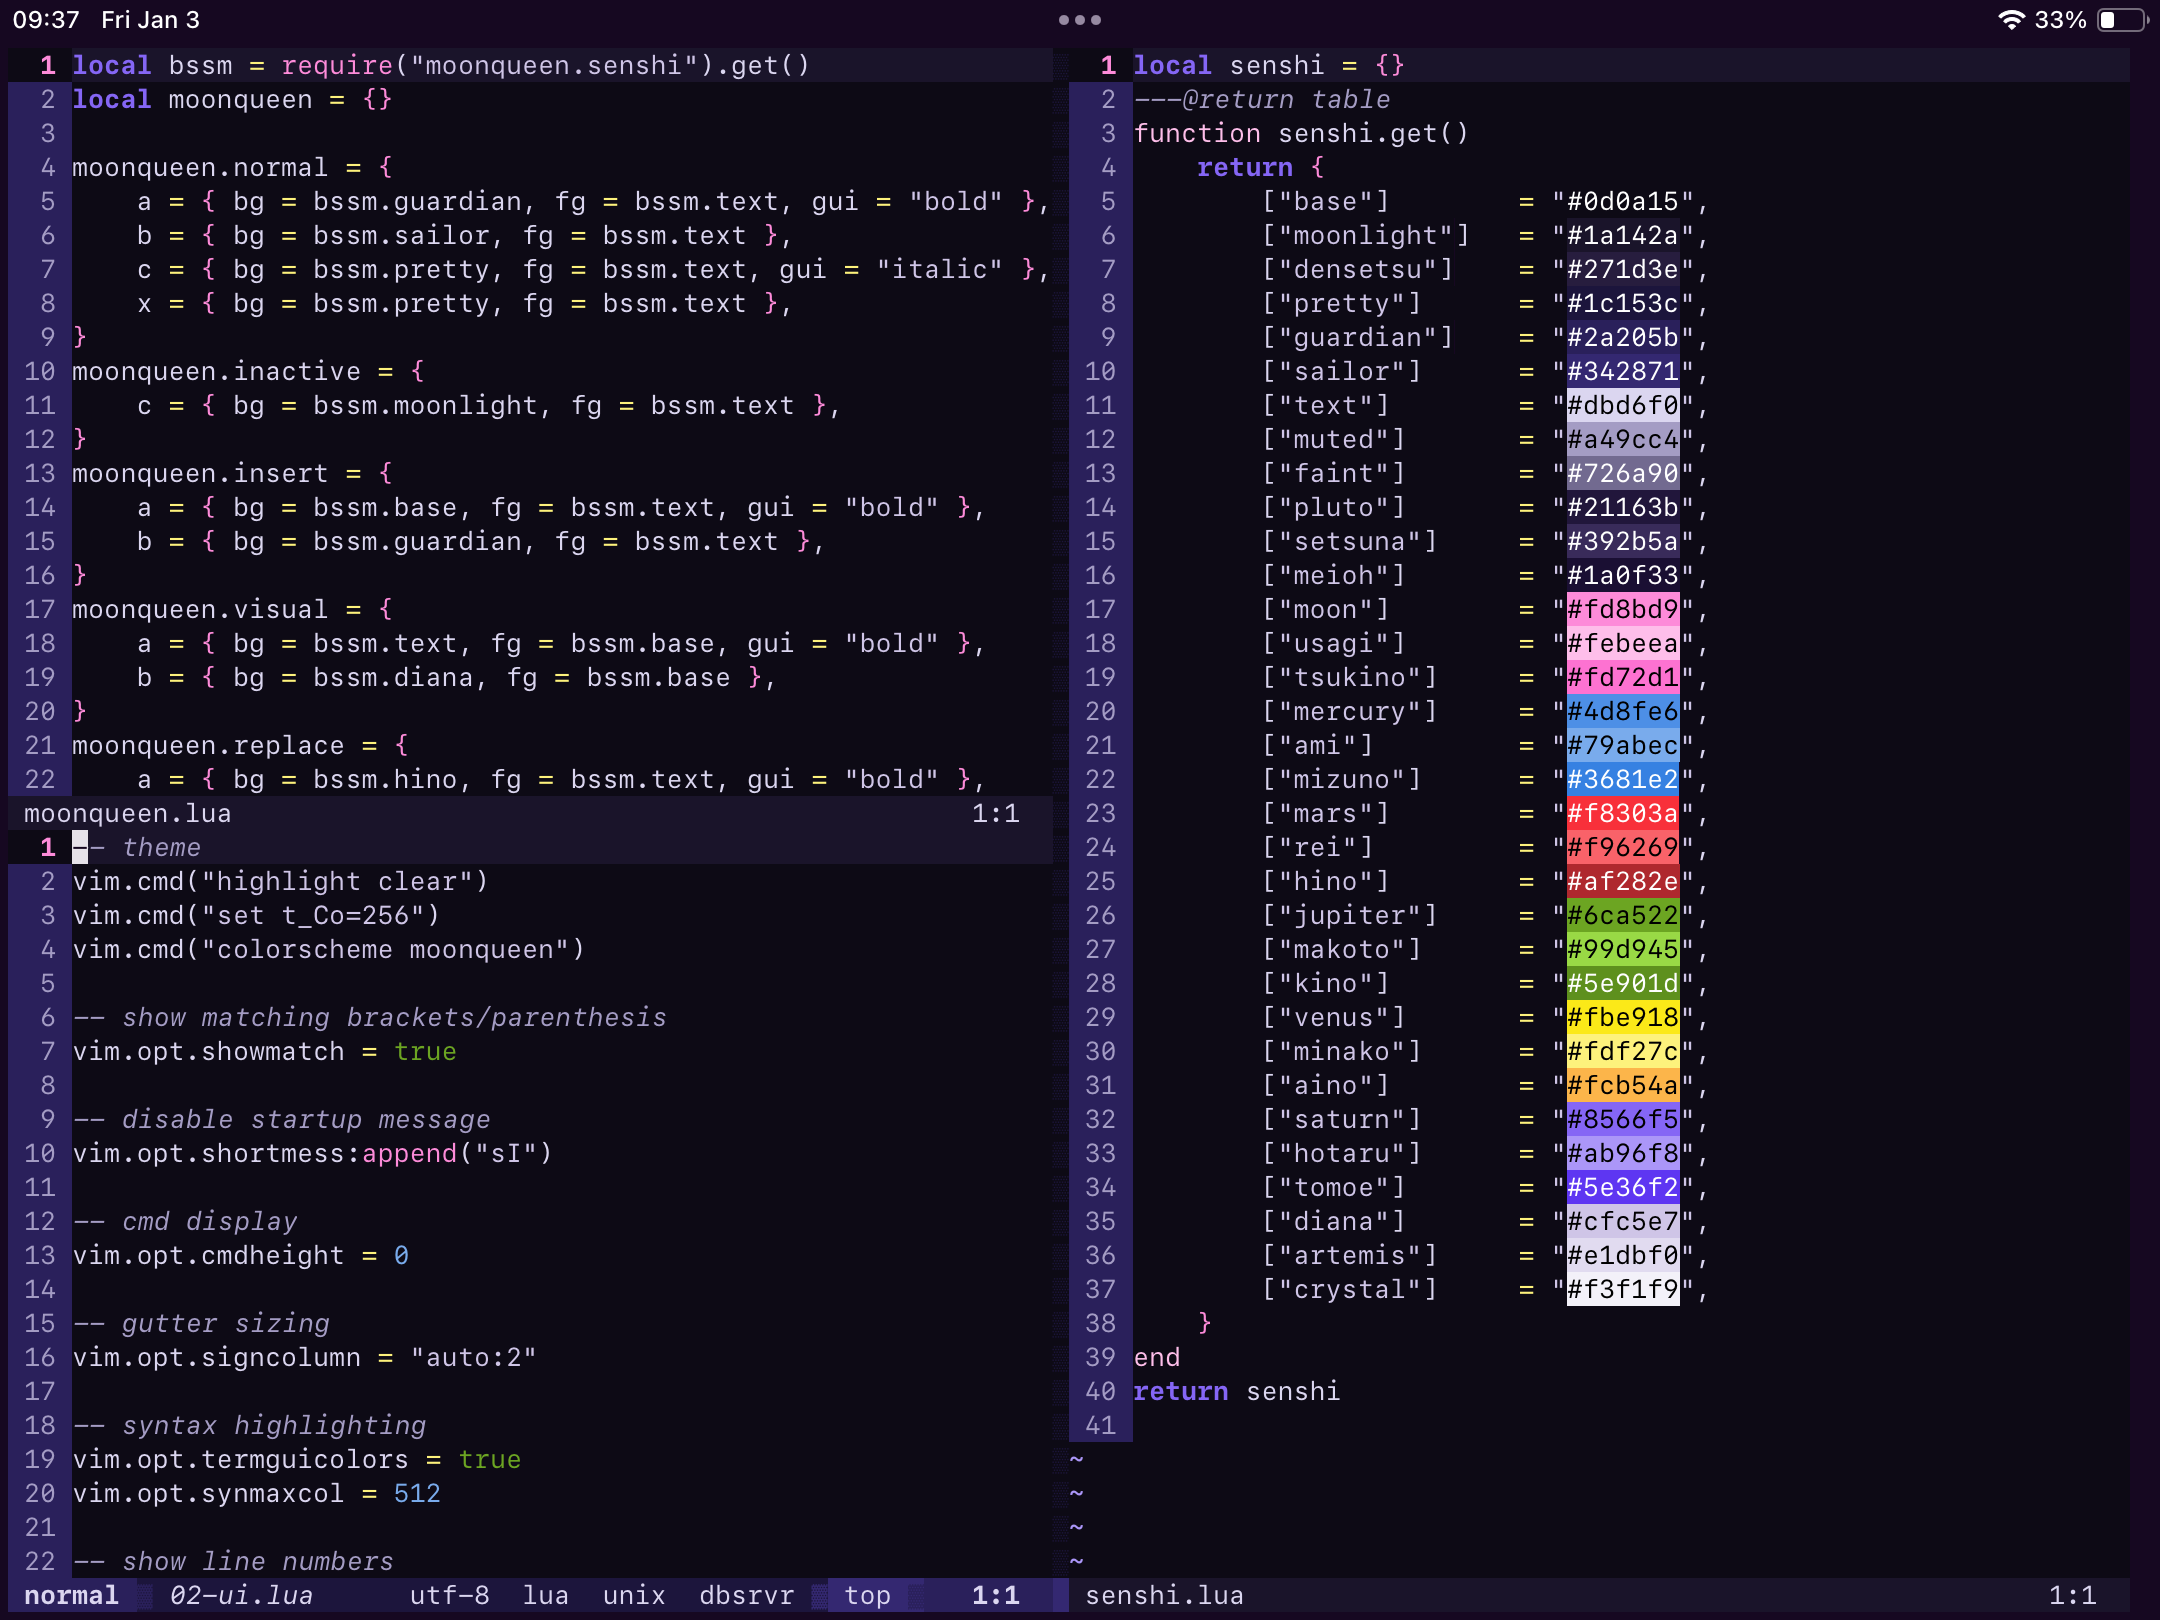
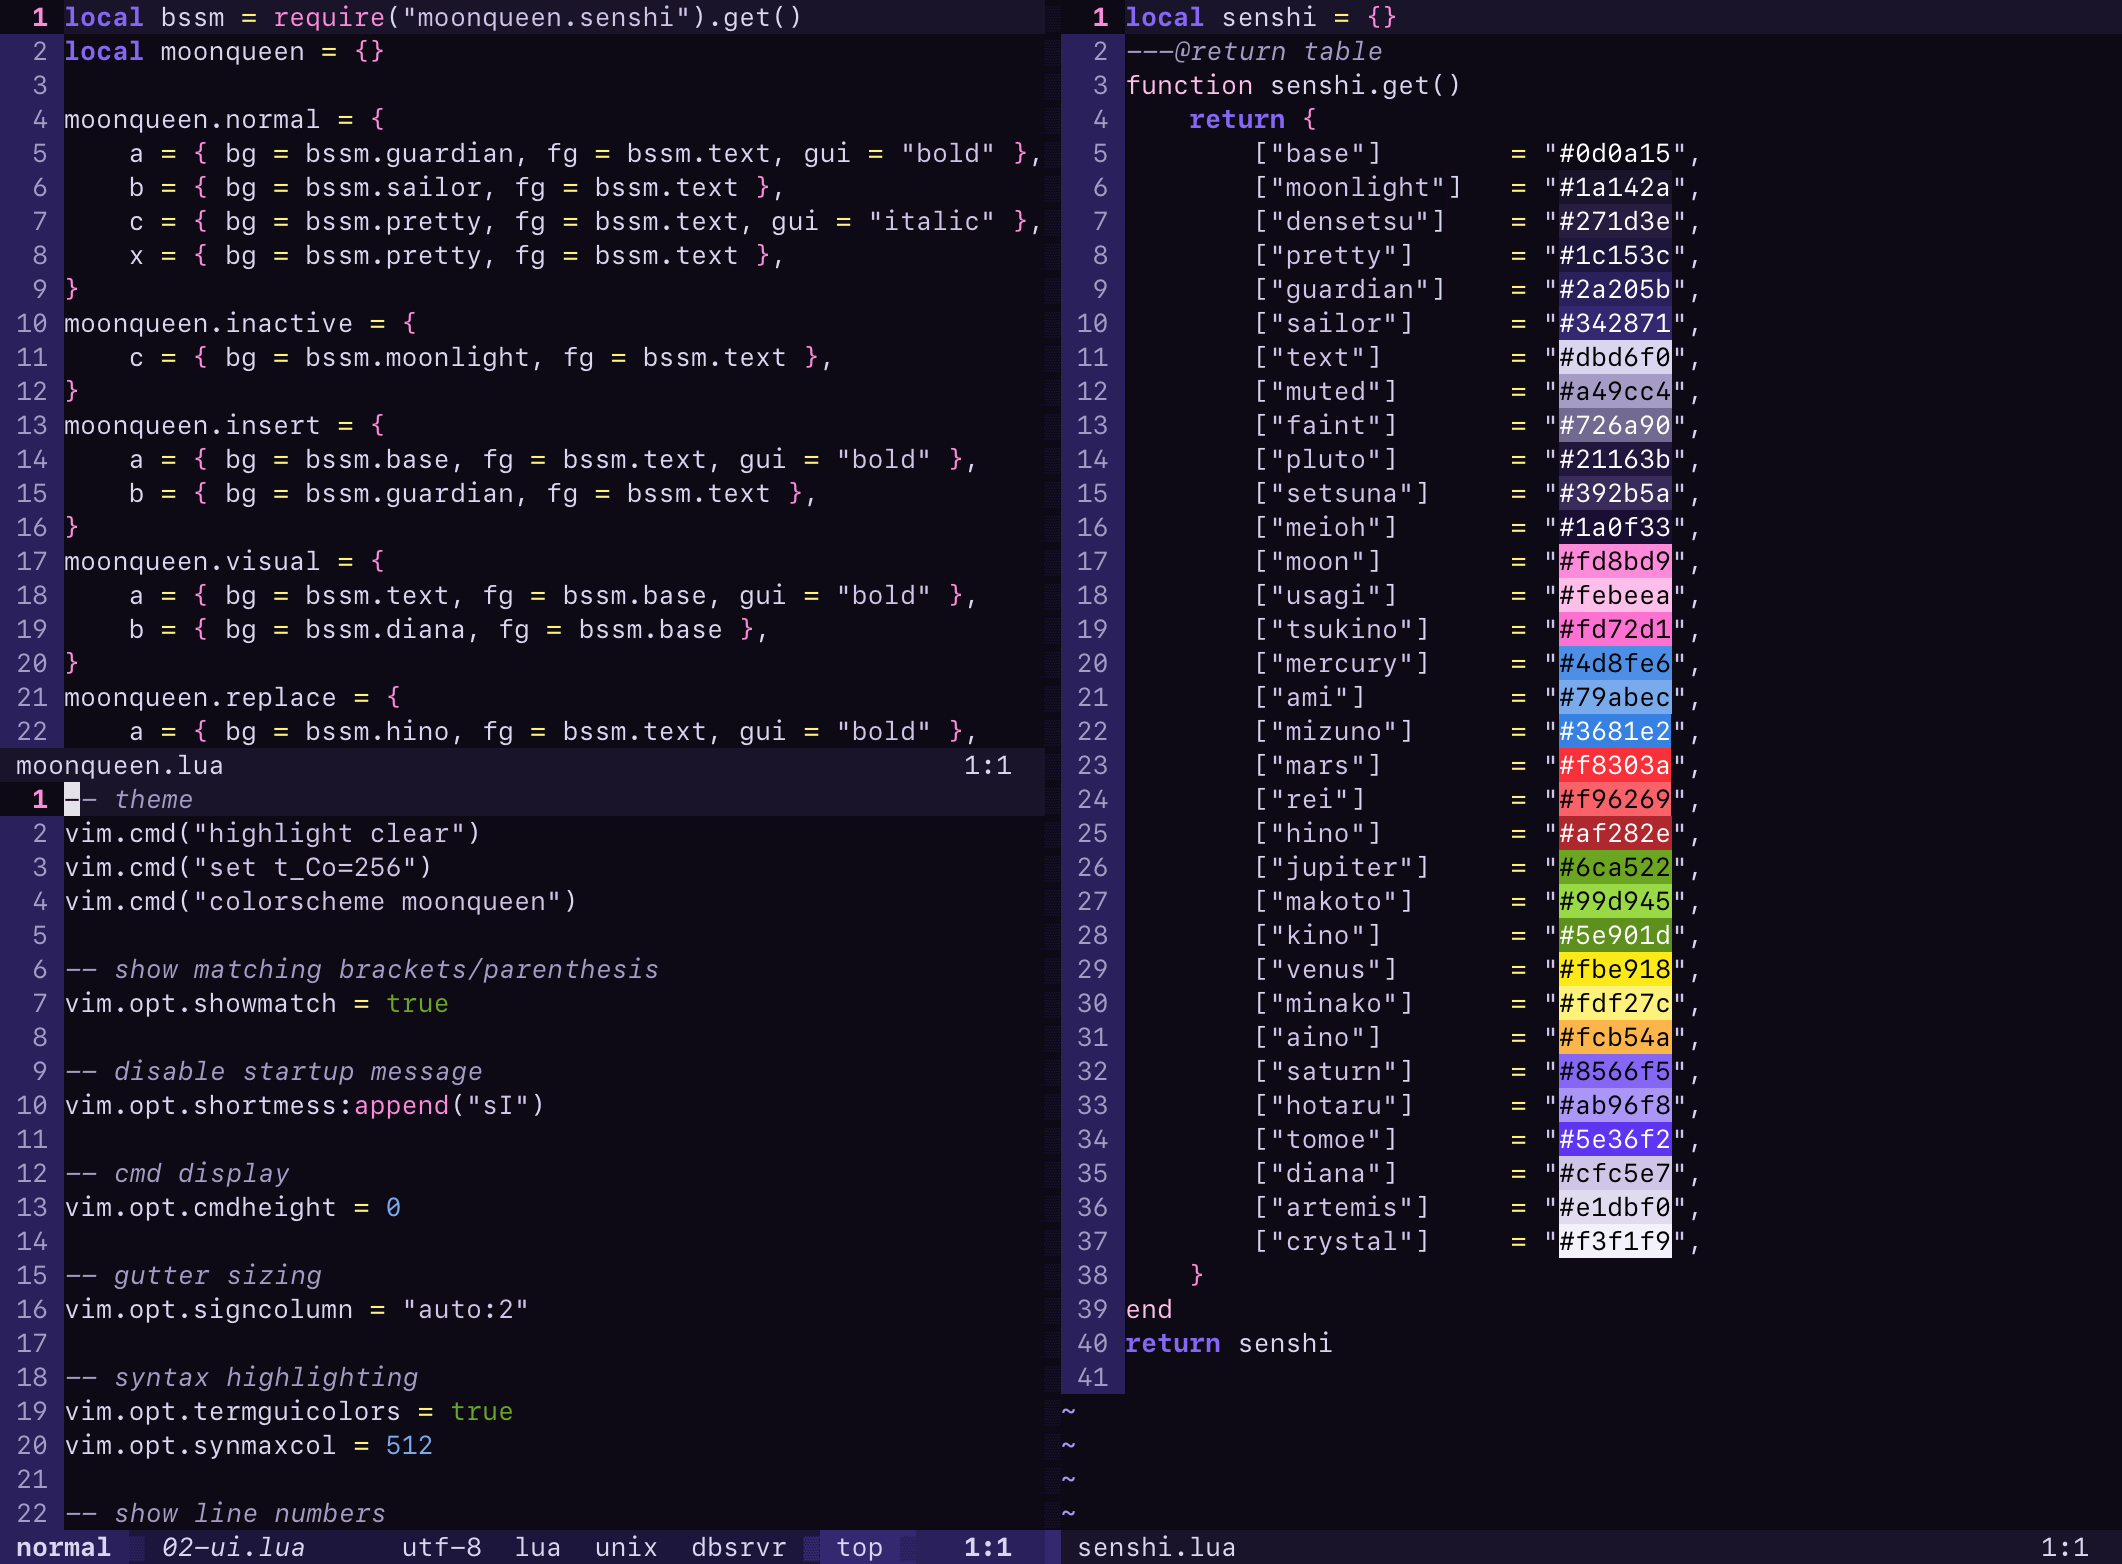
crop ipad shot

diff --git a/README.md b/README.md
@@ -4,7 +4,7 @@
 
 a colorscheme for neovim inspired by *bishoujo senshi sailor moon*. built with [lush](https://github.com/rktjmp/lush.nvim/).
 
-<img src="assets/grim.png" alt="in the name of the moon" width="960">
+<img src="assets/screenshot.png" alt="in the name of the moon" width="960">
 
 </div>
 
